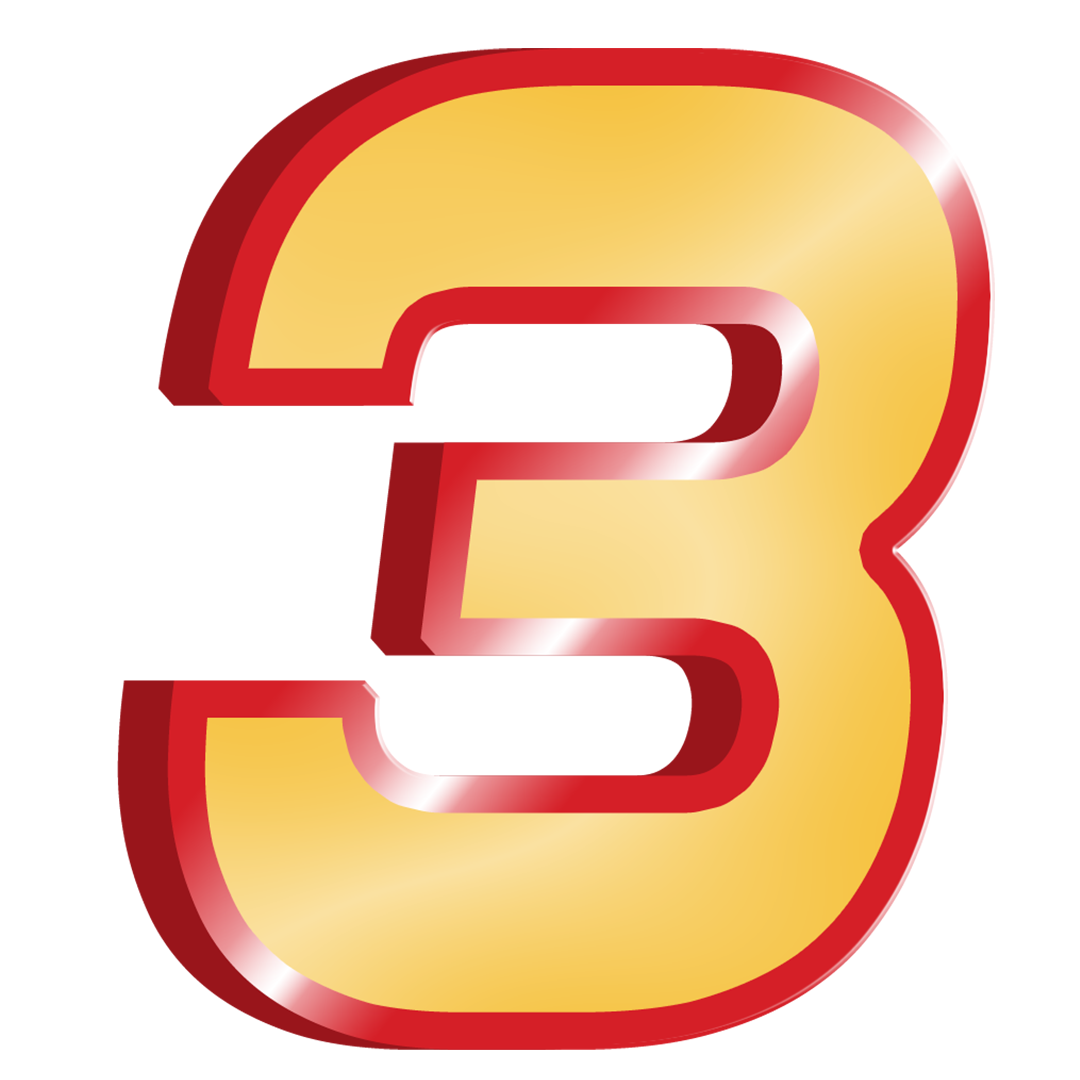
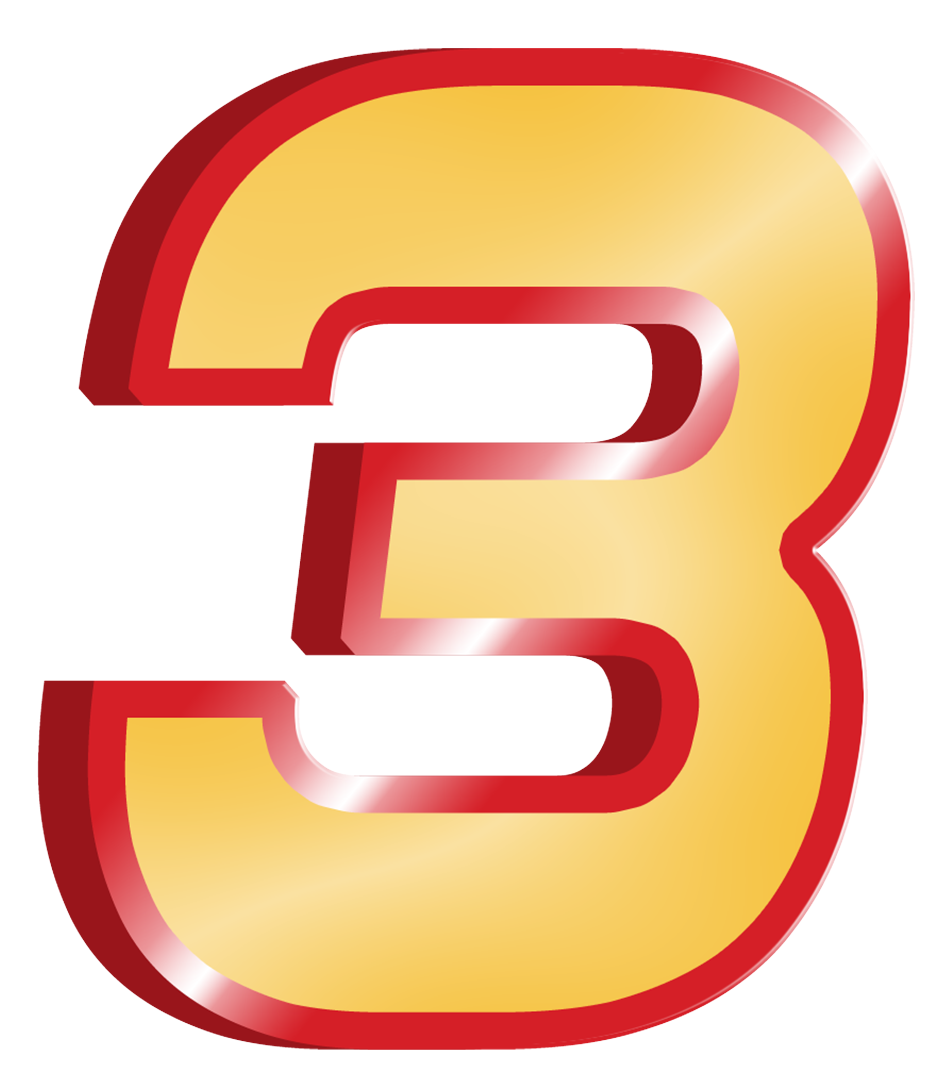
update

diff --git a/src/components/Section/BannerSection.jsx b/src/components/Section/BannerSection.jsx
@@ -34,13 +34,6 @@ const BannerSection = () => {
             ))}
           </div>
           <div className="flex items-center lg:gap-5 md:gap-3 gap-2">
-            <img
-              src="/nourut.png"
-              alt=""
-              className="lg:w-32 md:w-24 w-10"
-              data-aos="fade-up"
-              data-aos-duration="500"
-            />
             <div className="lg:space-y-5 md:space-y-3 space-y-2">
               <h2
                 className="lg:text-6xl md:text-2xl text-xl font-extrabold bg-gradient-to-r from-secondary to-primary bg-clip-text text-transparent"
@@ -65,7 +58,14 @@ const BannerSection = () => {
             </div>
           </div>
         </div>
-        <div className="md:col-span-3 col-span-2 flex justify-center items-end">
+        <div className="relative md:col-span-3 col-span-2 flex justify-center items-end">
+          <img
+            src="/nourut.png"
+            alt=""
+            className="absolute top-0 left-1/2 -translate-x-1/2 lg:w-32 md:w-20 w-8 z-10"
+            data-aos="fade-up"
+            data-aos-duration="500"
+          />
           <img
             src="/paslon2.png"
             alt="Rusti-Mastura-Sulaiman Agusto"
